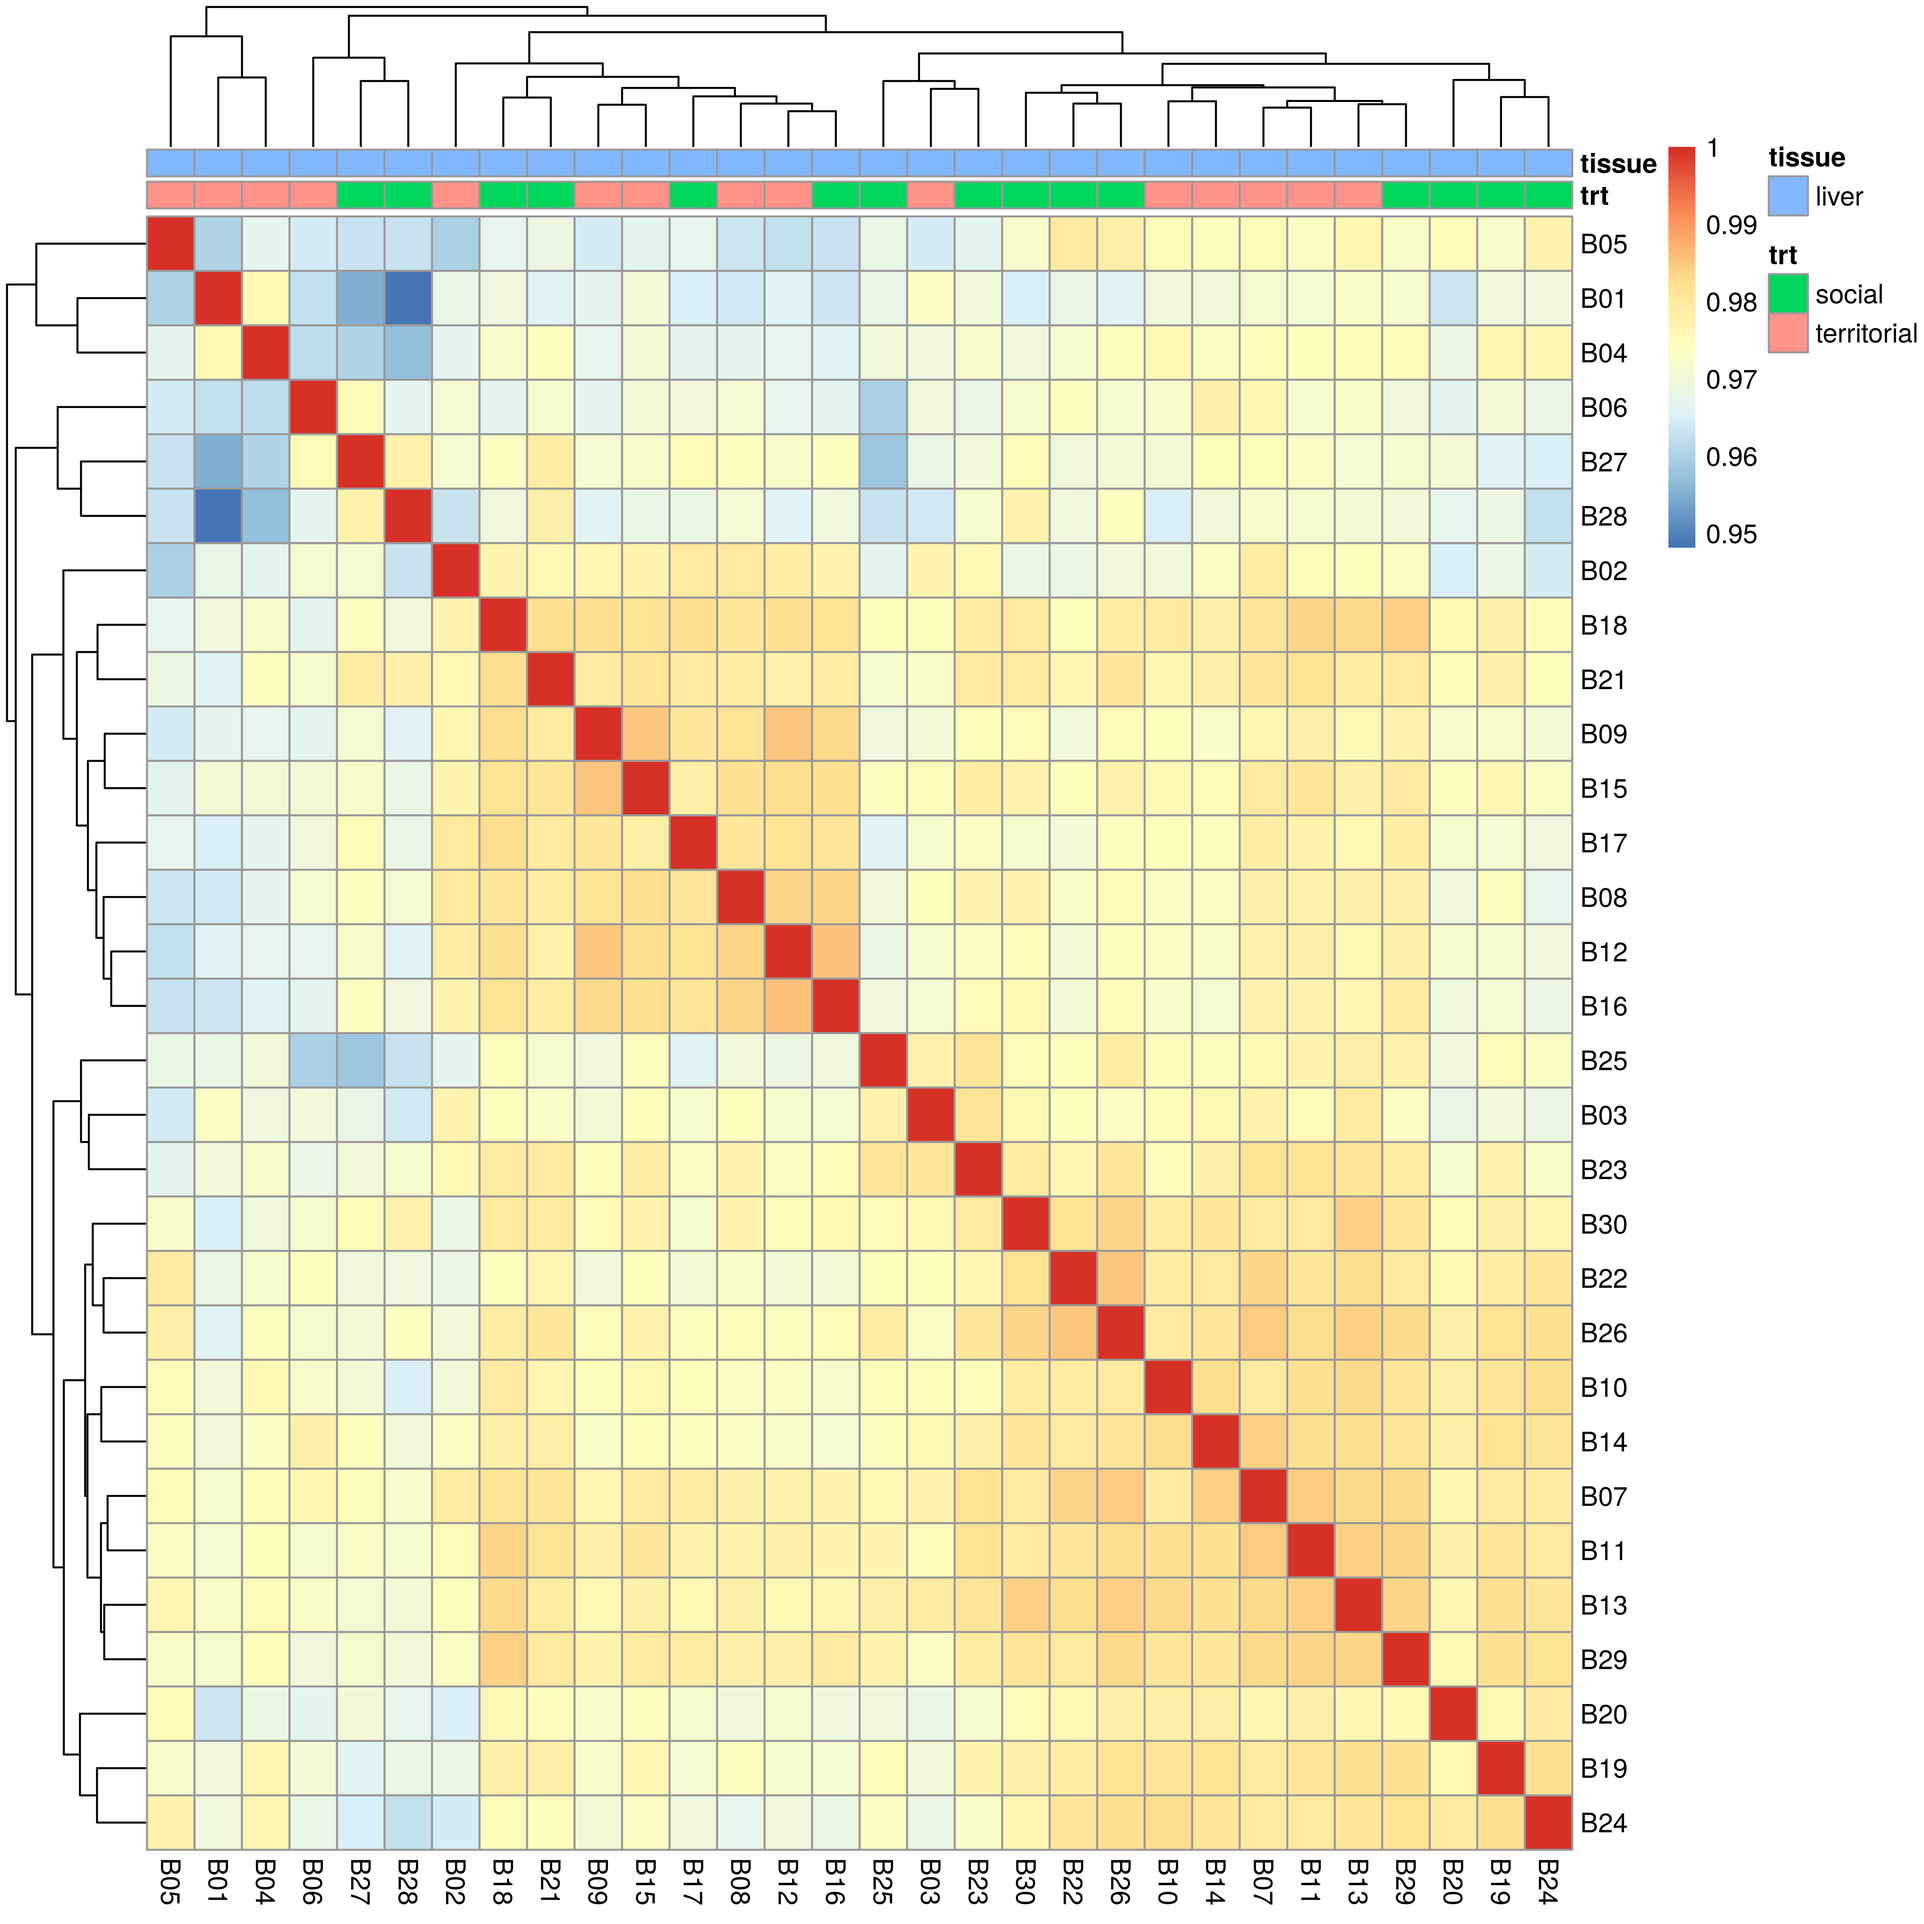
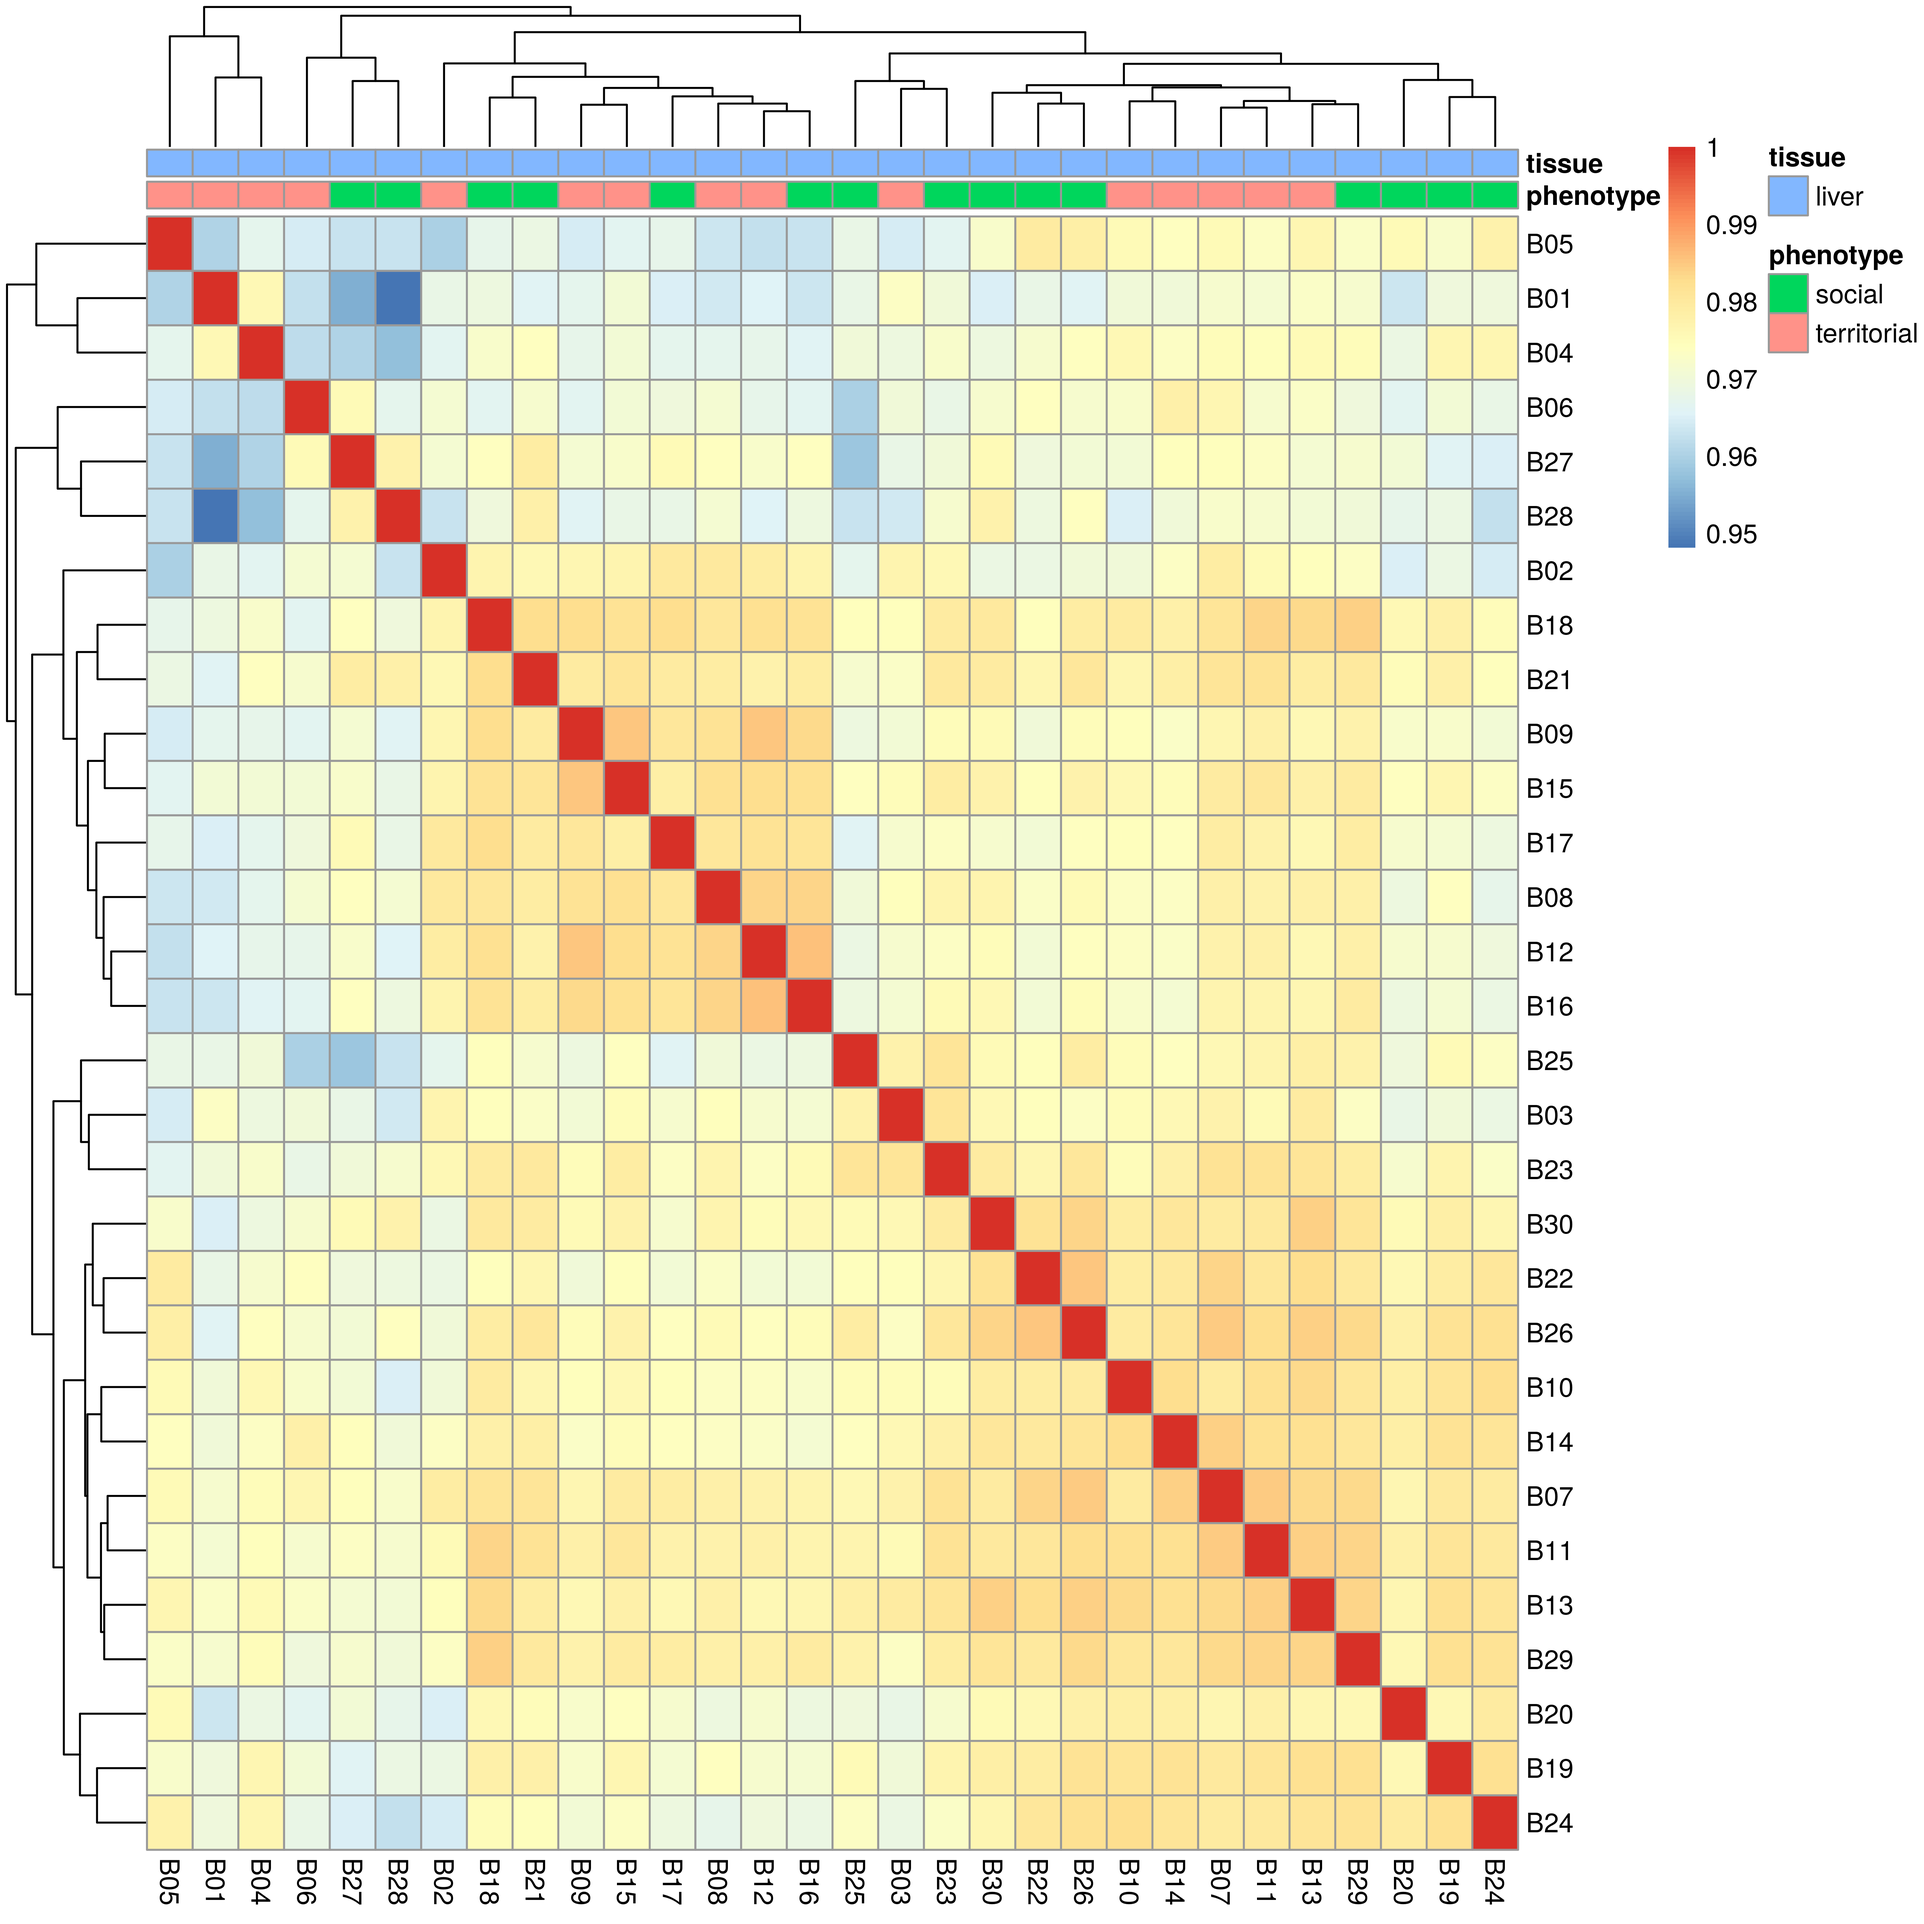
Name things for the reader of the supplement: one prefix, tissue, phenotype
- Gonad outputs are gonad-* like liver-*; the 16 GONAD-* files are renamed
  with git mv. tissue_config() derives the prefix from the tissue, and the
  separate heatmap prefix, now identical, is gone.
- The DE and gene tables' "treatment" column, which held the tissue name, is
  "tissue".
- <tissue>-gene-counts.csv rows DEGs_all-genes* (genes that received an
  adjusted p-value, not DEGs) are genes_tested_*, and DEG_*-p0.05 are
  significant_*. Notebook 02 says what each row counts.
- trt is phenotype throughout: the column in treatments-*.csv (checksums
  re-recorded), the design (~ phenotype) and its asserted term
  (phenotype_territorial_vs_social), plotCounts output, plot legends, and the
  colour and shape constants (PHENOTYPE_COLOURS, PHENOTYPE_SHAPES). Phenotype
  was observed at capture, not assigned, so "treatment" misdescribed it.
- Cover letter, READMEs and checklist paths follow.

Verified by a full render-all.sh: every one of the 41 committed result
tables, read through the rename map, equals its re-rendered counterpart
exactly, and the supplementary tables are byte-identical. These tables are
the new baseline for check-reproduction.R. The liver PCA and correlation
heatmap images change only in their legend title.

diff --git a/SUBMISSION-CHECKLIST.md b/SUBMISSION-CHECKLIST.md
@@ -29,11 +29,11 @@ one composite figure and four tables. The manuscript is *not* rendered by CI.
       were ovarian, but no notebook computes the marker values it quotes
       (112–410 CPM for *foxl2*), and `amh` — a testis marker — is itself
       differentially expressed (log2FC −0.90, padj 0.032, baseMean 87) in
-      `tag-seq/DESEQ_output/gonad/GONAD-ALL-DEG-apeglm.csv`. Either put the
+      `tag-seq/DESEQ_output/gonad/gonad-ALL-DEG-apeglm.csv`. Either put the
       marker-gene check into notebook 02 (or a new notebook) so the numbers are
       computed, or remove the inference and rely on the records.
 - [ ] If sexes are mixed across phenotypes, re-fit the gonad model with sex as
-      a covariate (`~ sex + trt`) and re-derive every downstream table. This
+      a covariate (`~ sex + phenotype`) and re-derive every downstream table. This
       could change the central result.
 - [ ] If maturity stage or gonadosomatic index was recorded, test it as a
       covariate. The Discussion already concedes that territorial fish may
@@ -314,14 +314,24 @@ them in the same pass as B1 and rebaseline `check-reproduction.R` once.
 
 ### D1. Naming that will confuse supplementary-table readers
 
-- [ ] Use one case for the per-tissue output prefixes (`liver-*` and
+- [x] Use one case for the per-tissue output prefixes (`liver-*` and
       `GONAD-*` today; `tissue_config()` in `tag-seq/code/_common.R`).
-- [ ] Rename the `treatment` column in the DE tables, which holds the tissue
+- [x] Rename the `treatment` column in the DE tables, which holds the tissue
       name (`annotate_genes()` in notebook 02), to `tissue`.
-- [ ] Rename the `DEGs_all-genes*` rows of `*-gene-counts.csv` to say
+- [x] Rename the `DEGs_all-genes*` rows of `*-gene-counts.csv` to say
       "genes tested"; they are not DEG counts.
-- [ ] Rename `trt` to `phenotype` in `tag-seq/data/treatments-*.csv`, the
+- [x] Rename `trt` to `phenotype` in `tag-seq/data/treatments-*.csv`, the
       DESeq2 design and the plots, and re-record the input checksums.
+
+Done 2026-09-27. Gonad outputs are `gonad-*`, renamed with `git mv` so their
+history follows. The DE and gene tables have a `tissue` column. The summary
+rows are `genes_tested_*` and `significant_*`. `trt` is `phenotype`
+everywhere: the input tables (checksums re-recorded), the model design and
+term (`phenotype_territorial_vs_social`), the single-gene-count tables, the
+plots and the colour constants. A full render, compared table by table with
+the previous commit through the rename map, matched exactly on all 41 result
+tables, and the supplementary tables came out byte-identical, so only names
+changed. `treatments-*.csv` keeps its filename.
 
 ### D2. Track only the results the manuscript uses
 

diff --git a/tag-seq/data/README.md b/tag-seq/data/README.md
@@ -8,8 +8,8 @@ with nothing to say whether it was still needed.
 |---|---|---|---|
 | `onerka_gene_count_matrix-gonad.csv` | 4.0 MB | **input** — gene-level counts, 37,942 genes x 30 samples, from `prepDE.py` | `02` via `load_counts()` |
 | `onerka_gene_count_matrix-liver.csv` | 3.7 MB | **input** — same, liver | `02` via `load_counts()` |
-| `treatments-gonad.csv` | 599 B | **input** — sample to treatment map, 15 territorial / 15 social | `02` via `load_counts()` |
-| `treatments-liver.csv` | 599 B | **input** — same, liver | `02` via `load_counts()` |
+| `treatments-gonad.csv` | 605 B | **input** — sample to behavioural phenotype map (column `phenotype`), 15 territorial / 15 social | `02` via `load_counts()` |
+| `treatments-liver.csv` | 605 B | **input** — same, liver | `02` via `load_counts()` |
 | `transcript_count_matrix-gonad.csv` | 6.1 MB | provenance only — transcript-level counts from the same `prepDE.py` run | nothing |
 | `transcript_count_matrix-liver.csv` | 5.7 MB | provenance only — same, liver | nothing |
 | `onerka_merged-liver.gtf` | 21 MB | provenance only — StringTie merged annotation used to produce the liver matrices | nothing |

diff --git a/figures/README.md b/figures/README.md
@@ -19,7 +19,7 @@ manuscript's HTML and Word renders embed. Both are sized for a 170 mm
 double-column width with 7 pt text.
 
 Colours are validated for colour-vision deficiency rather than chosen by eye;
-the values and the validation results are recorded next to `TRT_COLOURS` and
+the values and the validation results are recorded next to `PHENOTYPE_COLOURS` and
 `DIVERGING` in `tag-seq/code/_common.R`. Treatment is always shown by shape as
 well as colour.
 
